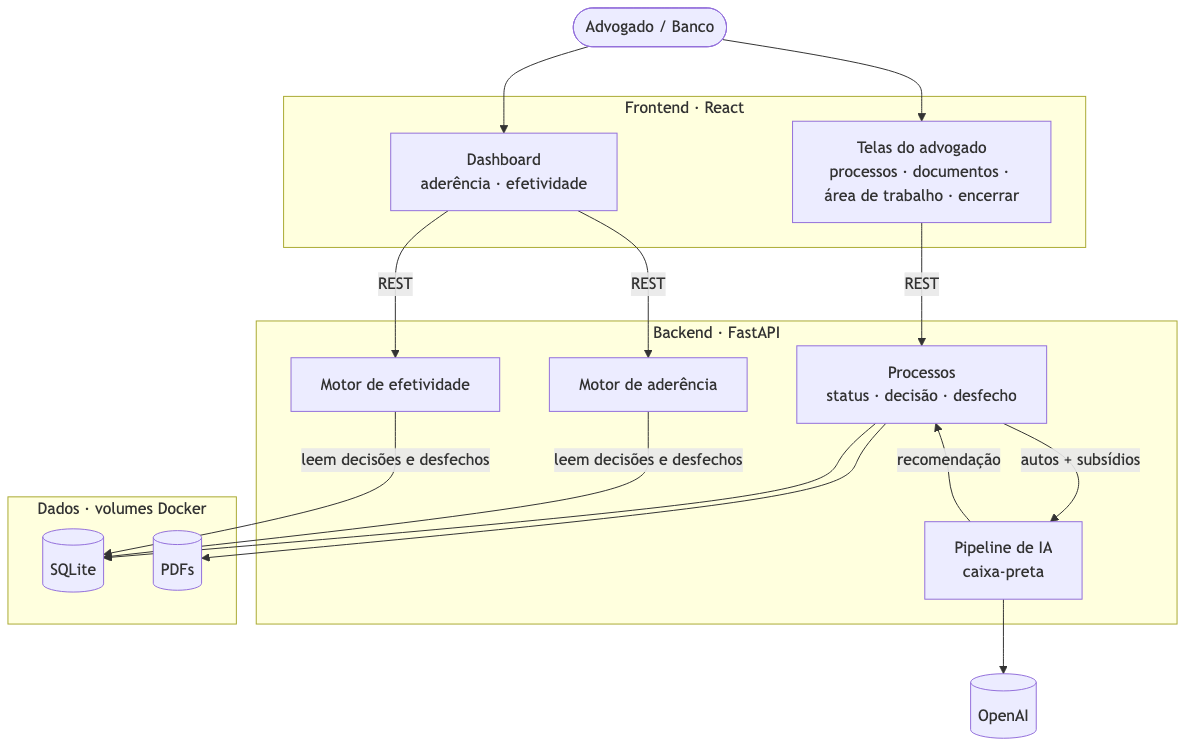
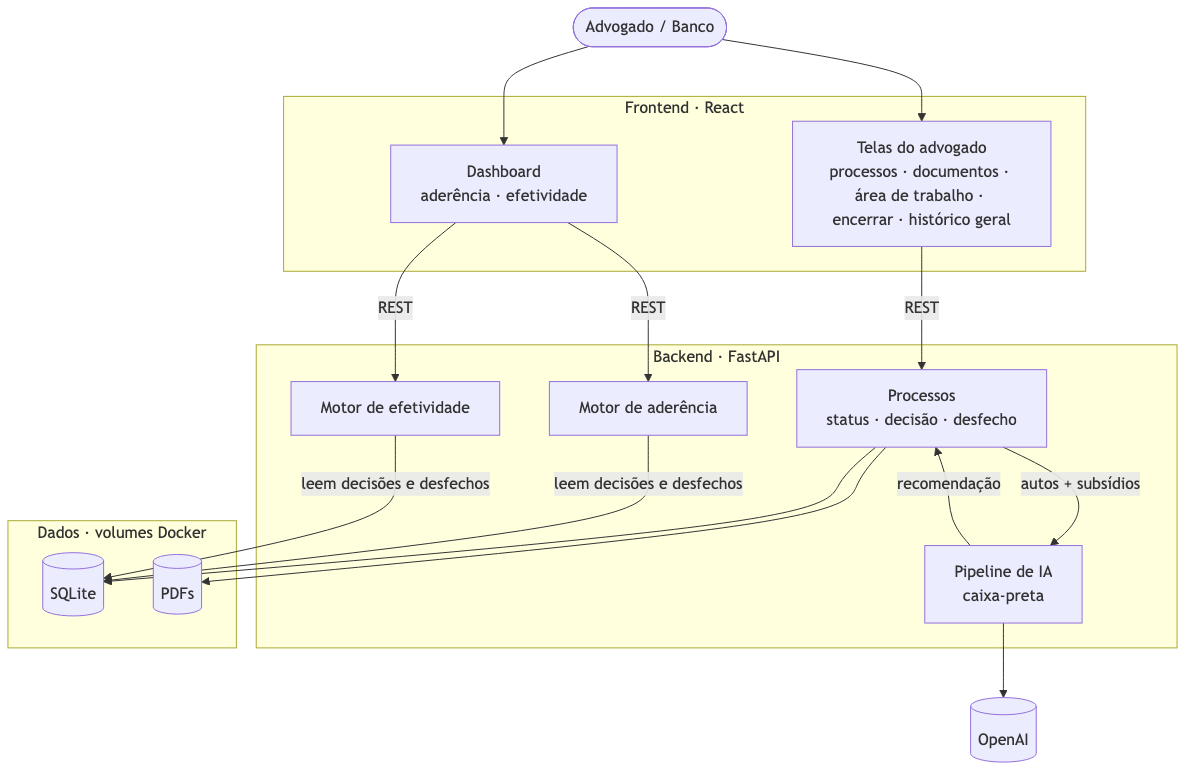
docs: add general history area with critical cases view
Move status history out of the process workspace into a dedicated
general history screen, defaulting to open cases ranked by criticality
(deadline, value at risk, low confidence, divergence, stalled, pending
documents).

diff --git a/docs/ARCHITECTURE.md b/docs/ARCHITECTURE.md
@@ -43,7 +43,7 @@ flowchart TB
 
   subgraph FRONT[Frontend · React]
     direction LR
-    ADVUI[Telas do advogado<br/>processos · documentos · área de trabalho · encerrar]
+    ADVUI[Telas do advogado<br/>processos · documentos · área de trabalho · encerrar · histórico geral]
     DASH[Dashboard<br/>aderência · efetividade]
   end
 
@@ -75,7 +75,7 @@ flowchart TB
 
 | Bloco | Responsabilidade |
 |---|---|
-| **web (React)** | As 5 telas do Figma. Na demo, o mesmo usuário vê tudo |
+| **web (React)** | As 5 telas do Figma + Histórico geral. Na demo, o mesmo usuário vê tudo |
 | **Processos** | Cadastro, upload e status. Registra a decisão do advogado (aceitou/divergiu) e o desfecho |
 | **Pipeline de IA** | Recebe autos + subsídios e devolve recomendação, faixa de valor, confiança e evidências (§5) |
 | **Motor de aderência** | Lê as decisões e calcula quanto a política é seguida e os motivos de divergência (§7) |
@@ -106,7 +106,7 @@ stateDiagram-v2
 ```
 
 Regras:
-- Toda transição grava uma linha em `case_status_history`, que alimenta o "Histórico do estado" da Tela 3.
+- Toda transição grava uma linha em `case_status_history`, que alimenta a tela **Histórico geral**. O histórico fica **fora da visão de um processo**: a Tela 3 mostra só o status atual.
 - `ENCERRADO` é somente leitura.
 - Contrato ausente **não bloqueia** a análise. Ele entra como lacuna no cálculo (Tela 2).
 
@@ -116,9 +116,27 @@ Regras:
 |---|---|---|
 | **1. Meus processos** | listar, buscar CNJ, filtrar status/prazo/recomendação, cards de resumo | `GET /api/cases`, `GET /api/cases/summary` |
 | **2. Cadastrar + documentos** | dados do processo, upload múltiplo, checklist dos 6 subsídios, salvar rascunho, avaliar | `POST /api/cases`, `PATCH /api/cases/{id}`, `POST /api/cases/{id}/documents`, `PATCH /api/documents/{id}` (trocar tipo), `POST /api/cases/{id}/analyze`, `GET /api/cases/{id}/analysis` (polling) |
-| **3. Área de trabalho** | cartão de recomendação, evidências com citação, PDF viewer, chatbot, aceitar/não aceitar, negociação, histórico | `GET /api/cases/{id}/workspace`, `GET /api/documents/{id}/file`, `POST /api/evidences/{id}/feedback` (confirmar/corrigir), `POST /api/cases/{id}/decision`, `POST /api/cases/{id}/negotiation-rounds`, `POST /api/cases/{id}/chat` |
+| **3. Área de trabalho** | cartão de recomendação, evidências com citação, PDF viewer, chatbot, aceitar/não aceitar, negociação | `GET /api/cases/{id}/workspace`, `GET /api/documents/{id}/file`, `POST /api/evidences/{id}/feedback` (confirmar/corrigir), `POST /api/cases/{id}/decision`, `POST /api/cases/{id}/negotiation-rounds`, `POST /api/cases/{id}/chat` |
+| **Histórico geral** (tela própria no menu, fora do processo) | duas visualizações: **Casos críticos** (padrão, ordenada por criticidade) e **Linha do tempo** (todas as transições de status). Filtro por processo (CNJ), status, escritório e período; clicar abre o processo | `GET /api/history/critical`, `GET /api/history` (filtros `cnj, status, office_id, period`) |
 | **4. Encerrar caso** | como terminou, valores, resumo automático, comentário | `GET /api/cases/{id}/closure-preview`, `POST /api/cases/{id}/closure` |
 | **5. Dashboard do banco** (na demo, acessível pelo menu do advogado) | KPIs, economia prevista vs. realizada, motivos de divergência, aderência por escritório, alertas | `GET /api/dashboard/kpis`, `/economy-timeseries`, `/divergence-reasons`, `/adherence-by-office`, `/alerts` (todos com os filtros `period, uf, office_id, thesis, confidence, policy_version`) |
+
+### Casos críticos (Histórico geral)
+
+Visualização padrão da área geral. Lista os processos **abertos** (não `ENCERRADO`) ordenados pelos que mais precisam de atenção. Cada linha mostra os motivos da criticidade como etiquetas, por exemplo `prazo ≤ 5 dias`, `R$ 11.300 em risco` e `confiança baixa`.
+
+Sinais usados, todos já disponíveis nas tabelas (§6):
+
+| Sinal | Fonte |
+|---|---|
+| Valor em risco | `recommendations.expected_defense_cost` (ou `cases.claim_value` antes da análise) |
+| Prazo próximo | `cases.deadline_at` |
+| Confiança baixa | `recommendations.confidence` |
+| Divergiu da recomendação | `lawyer_decisions.accepted = false` |
+| Parado há muito tempo | último `case_status_history.at` |
+| Pendência de documento | arquivo ilegível ou erro na análise (`analysis_jobs`) |
+
+A ordenação é calculada no backend por uma regra simples e configurável: primeiro prazo, depois valor em risco, com os demais sinais como desempate. Os pesos exatos ficam em aberto (§12).
 
 ## 5. Pipeline de IA — contrato (caixa-preta)
 
@@ -207,7 +225,7 @@ erDiagram
 | `offices` | id, name | filtro/aderência por escritório |
 | `lawyers` | id, office_id, name, email | autoria |
 | `cases` | id, cnj (unique), uf, thesis, claim_value, lawyer_id, status, deadline_at, created_at | Tela 1 |
-| `case_status_history` | case_id, from_status, to_status, at, actor | histórico (Tela 3), tempo por etapa |
+| `case_status_history` | case_id, from_status, to_status, at, actor | Histórico geral, tempo por etapa |
 | `documents` | id, case_id, path, filename, declared_type, detected_type, legible, illegible_pages_json | checklist (Tela 2) |
 | `analysis_jobs` | id, case_id, status, stage, progress, error, started_at, finished_at | loading/polling |
 | `policy_versions` | id (`v1.0`), params_json, created_at, active | filtro "versão da política" |
@@ -282,6 +300,7 @@ src/
 │   │   │   ├── CasesList/        # Tela 1
 │   │   │   ├── CaseNew/          # Tela 2 (stepper)
 │   │   │   ├── Workspace/        # Tela 3
+│   │   │   ├── History/          # Histórico geral: casos críticos + linha do tempo
 │   │   │   └── BankDashboard/    # Tela 5
 │   │   ├── components/           # RecommendationCard, EvidenceCard, PdfViewer,
 │   │   │                         # Chat, DivergenceModal, CloseCaseModal (Tela 4)
@@ -355,3 +374,4 @@ POLICY_VERSION=v1.0
 | 3 | Período do retreino periódico (Fluxo C: "definir períodos") | §9 |
 | 4 | Limites `N_MIN` e `X%` dos alertas de padrão | §7 |
 | 5 | Fluxo de negociação: o advogado registra cada rodada ou só o valor final? | `negotiation_rounds` |
+| 6 | Critério de criticidade: quais sinais entram, pesos e limites (ex.: prazo ≤ 5 dias, valor em risco acima de R$ X, dias parado) | Casos críticos (Histórico geral) |
